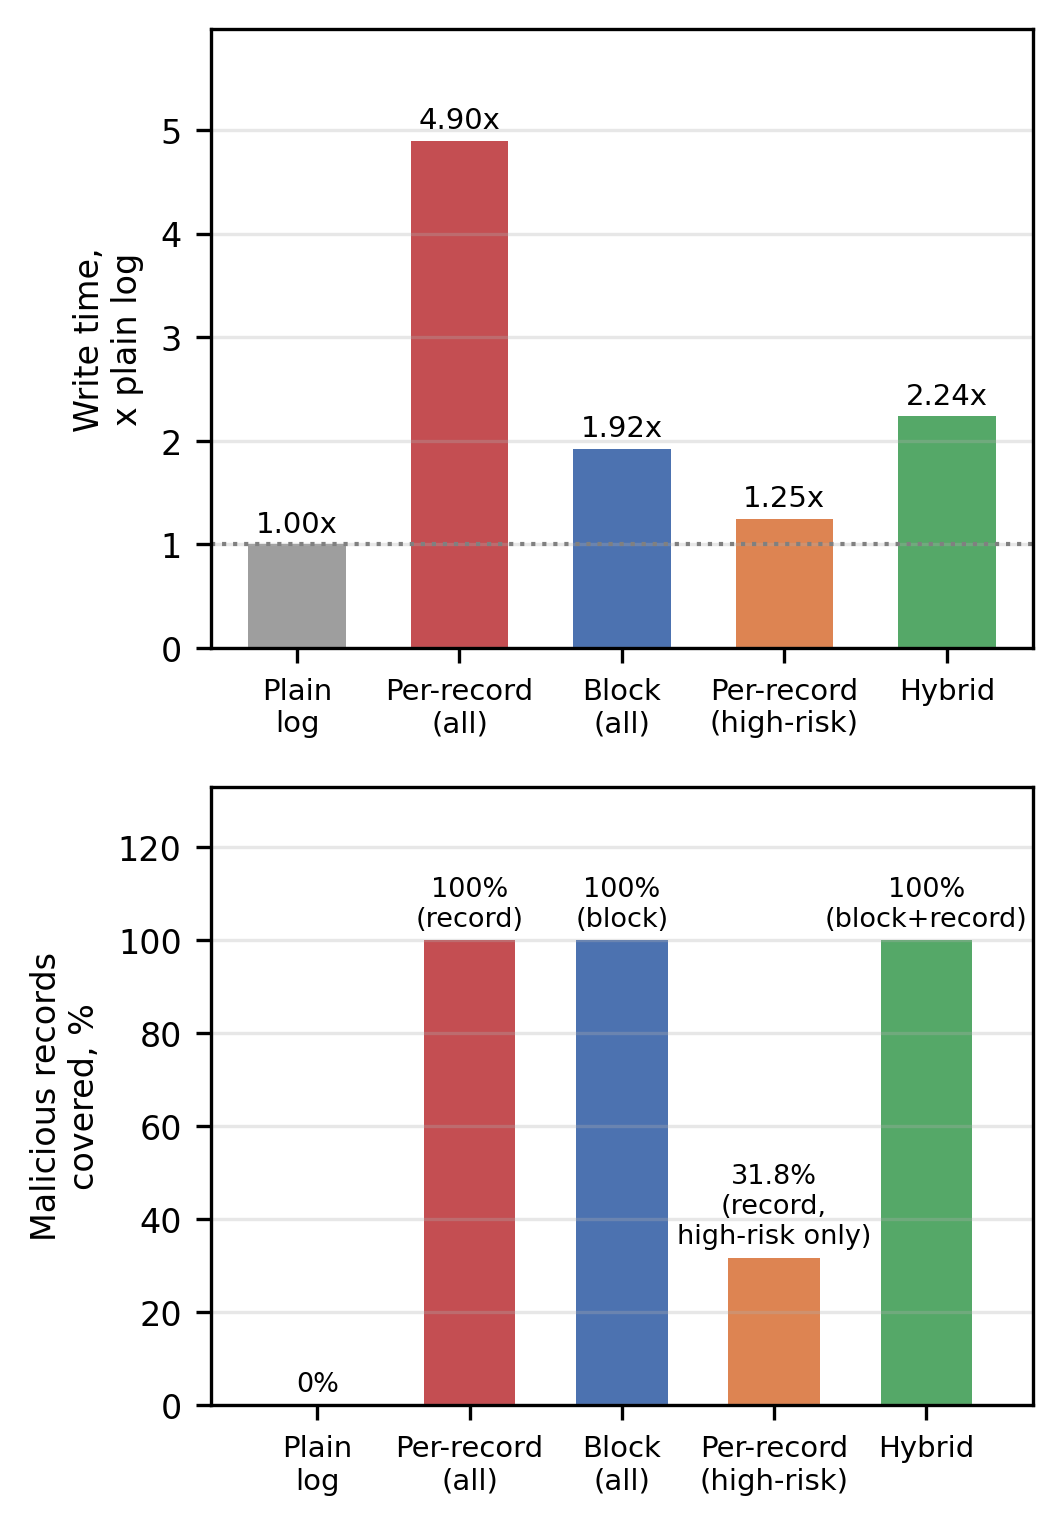
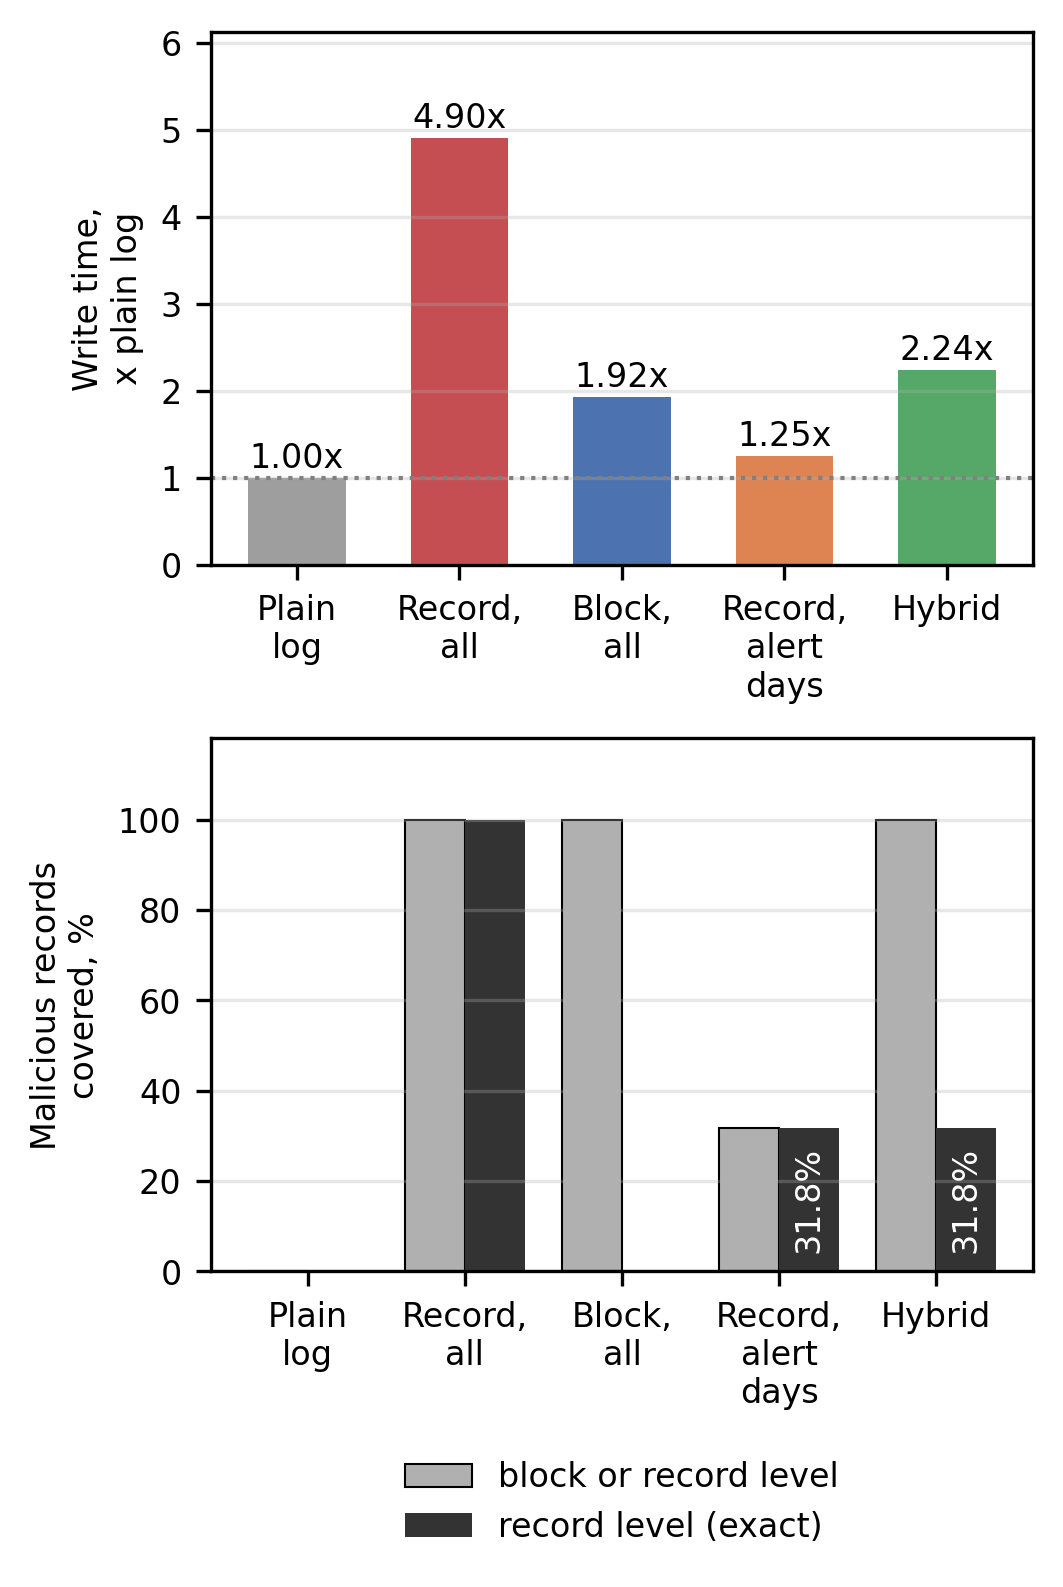
Redraw fig8: 8 pt labels, block-level vs record-level coverage panel

diff --git a/cert_plots.py b/cert_plots.py
@@ -196,45 +196,56 @@ def fig8_scheme_comparison():
     """
     Сравнение схем защиты журнала на тестовом периоде (168 392 записи): стоимость и покрытие.
     Данные из block_baseline_results.csv; время дано как отношение к обычной записи в том же запуске.
-    Одна колонка IEEE - панели друг под другом (были рядом, на 3.5 дюйма стали бы нечитаемы).
+    Одна колонка IEEE - панели друг под другом, все подписи не меньше 8 pt.
+
+    Нижняя панель разводит два вида покрытия вредоносных записей (термины статьи):
+      - покрыто хоть как-то (блочной меткой или поэлементной цепочкой);
+      - покрыто с точностью до одной записи (exact-record integrity coverage).
+    У блочной схемы первое 100%, второе 0%; у гибрида первое 100%, второе - как у поэлементной
+    цепочки для рискованных дней (те же дни с r >= tau, поэтому то же значение).
     """
     data = {r["scheme"]: r for r in read_csv("block_baseline_results.csv")}
     plain = float(data["plain log"]["time_ms"])
-    picks = [("Plain\nlog", "plain log", "#9e9e9e"),
-             ("Per-record\n(all)", "full per-record HMAC chain", "#c44e52"),
-             ("Block\n(all)", "block HMAC, B=1000", "#4c72b0"),
-             ("Per-record\n(high-risk)", "risk-aware per-record chain only, tau=0.3", "#dd8452"),
-             ("Hybrid", "hybrid: block B=1000 for all + per-record chain tau=0.3", "#55a868")]
+    risky = "risk-aware per-record chain only, tau=0.3"
+    # (подпись, строка CSV, цвет, из какой строки брать покрытие до записи; None = 0)
+    picks = [("Plain\nlog", "plain log", "#9e9e9e", None),
+             ("Record,\nall", "full per-record HMAC chain", "#c44e52", "full per-record HMAC chain"),
+             ("Block,\nall", "block HMAC, B=1000", "#4c72b0", None),
+             ("Record,\nalert\ndays", risky, "#dd8452", risky),
+             ("Hybrid", "hybrid: block B=1000 for all + per-record chain tau=0.3", "#55a868", risky)]
     labels = [p[0] for p in picks]
     ratio = [float(data[p[1]]["time_ms"]) / plain for p in picks]
-    covered = [float(data[p[1]]["malicious_covered_pct"]) for p in picks]
+    any_cov = [float(data[p[1]]["malicious_covered_pct"]) for p in picks]
+    exact_cov = [float(data[p[3]]["malicious_covered_pct"]) if p[3] else 0.0 for p in picks]
     colors = [p[2] for p in picks]
+    x = list(range(len(picks)))
 
-    fig, (a1, a2) = plt.subplots(2, 1, figsize=(COL_WIDTH, 5.2))
-    a1.bar(range(len(picks)), ratio, color=colors, width=0.6)
+    fig, (a1, a2) = plt.subplots(2, 1, figsize=(COL_WIDTH, 5.4))
+    a1.bar(x, ratio, color=colors, width=0.6)
     a1.axhline(1, color="gray", linestyle=":", linewidth=1)
     for i, v in enumerate(ratio):
-        a1.text(i, v + 0.12, f"{v:.2f}x", ha="center", fontsize=7)
+        a1.text(i, v + 0.12, f"{v:.2f}x", ha="center", fontsize=8)
     a1.set_ylabel("Write time,\nx plain log", fontsize=AXIS_FS)
-    a1.set_ylim(0, max(ratio) * 1.22)
-    a1.tick_params(labelsize=TICK_FS)
+    a1.set_ylim(0, max(ratio) * 1.25)
 
-    a2.bar(range(len(picks)), covered, color=colors, width=0.6)
-    # Под процентом подписана гранулярность: «100%» у блочной и поэлементной схемы означает разную локализацию подделки.
-    # Подпись последнего столбца (Hybrid) короче остальных - у правого края колонки длинный текст обрезался бы полем графика.
-    granularity = ["", "record", "block", "record,\nhigh-risk only", "block+record"]
-    for i, v in enumerate(covered):
-        pct = f"{v:.0f}%" if v in (0, 100) else f"{v:.1f}%"
-        a2.text(i, v + 3, f"{pct}\n({granularity[i]})" if granularity[i] else pct,
-                ha="center", fontsize=6.5)
+    w = 0.38
+    a2.bar([i - w / 2 for i in x], any_cov, width=w, color="#b0b0b0", edgecolor="black", linewidth=0.5,
+           label="block or record level")
+    a2.bar([i + w / 2 for i in x], exact_cov, width=w, color="#333333", label="record level (exact)")
+    # Подписываем только промежуточные значения (0% и 100% читаются по оси и сетке), внутри
+    # тёмного столбца вертикально: снаружи подпись налезала бы на соседний столбец 100%.
+    for i in x:
+        if 0 < exact_cov[i] < 100:
+            a2.text(i + w / 2, exact_cov[i] / 2, f"{exact_cov[i]:.1f}%", ha="center", va="center",
+                    rotation=90, color="white", fontsize=8)
     a2.set_ylabel("Malicious records\ncovered, %", fontsize=AXIS_FS)
-    a2.set_xlim(-0.7, len(picks) - 0.3)
-    a2.set_ylim(0, 133)
-    a2.tick_params(labelsize=TICK_FS)
+    a2.set_ylim(0, 118)
+    a2.legend(fontsize=8, loc="upper center", bbox_to_anchor=(0.5, -0.30), ncol=1, frameon=False)
 
     for ax in (a1, a2):
-        ax.set_xticks(range(len(picks)))
-        ax.set_xticklabels(labels, fontsize=7)
+        ax.set_xticks(x)
+        ax.set_xticklabels(labels, fontsize=TICK_FS)
+        ax.tick_params(labelsize=TICK_FS)
         ax.grid(alpha=0.3, axis="y")
     save(fig, "fig8_scheme_comparison.png")
 

diff --git a/check_figures.py b/check_figures.py
@@ -108,7 +108,12 @@ keys = ["plain log", "full per-record HMAC chain", "block HMAC, B=1000",
         "risk-aware per-record chain only, tau=0.3", "hybrid: block B=1000 for all + per-record chain tau=0.3"]
 print("\nfig8:", [(a["ylabel"], a["xticklabels"]) for a in axs])
 check(all(close(h, float(data[k]["time_ms"]) / plain, 1e-3) for h, k in zip(axs[0]["bars"], keys)), "fig8: левый график = время/обычная запись")
-check(all(close(h, float(data[k]["malicious_covered_pct"]), 1e-3) for h, k in zip(axs[1]["bars"], keys)), "fig8: правый график = % вредоносных записей под защитой")
+# Нижний график: сначала 5 столбцов «покрыто блоком или записью», затем 5 «покрыто до записи».
+exact_src = [None, "full per-record HMAC chain", None, keys[3], keys[3]]   # гибрид: те же дни, что у keys[3]
+exp_any = [float(data[k]["malicious_covered_pct"]) for k in keys]
+exp_exact = [float(data[k]["malicious_covered_pct"]) if k else 0.0 for k in exact_src]
+check(len(axs[1]["bars"]) == 10 and all(close(h, e, 1e-3) for h, e in zip(axs[1]["bars"], exp_any + exp_exact)),
+      "fig8: нижний график = % вредоносных записей, покрытых блоком или записью / только до записи")
 
 # ---------------- fig6 и fig7 ----------------
 cc.main()
